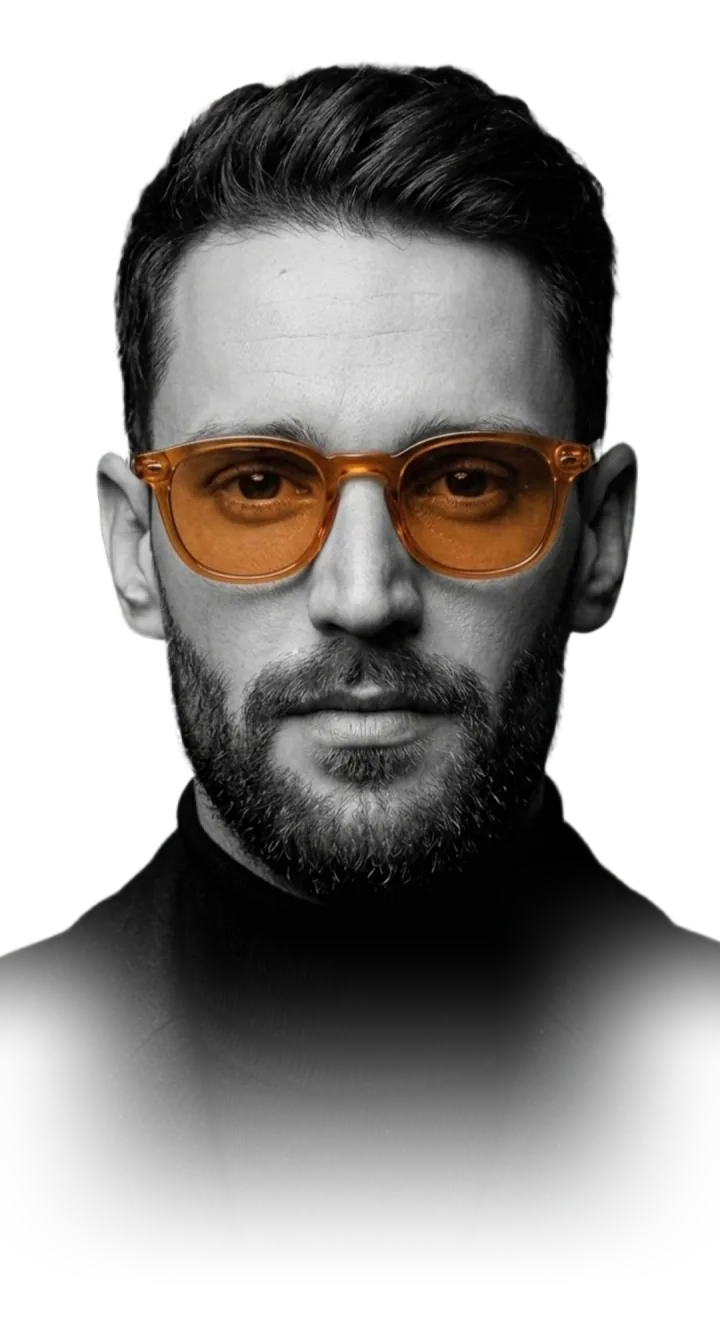
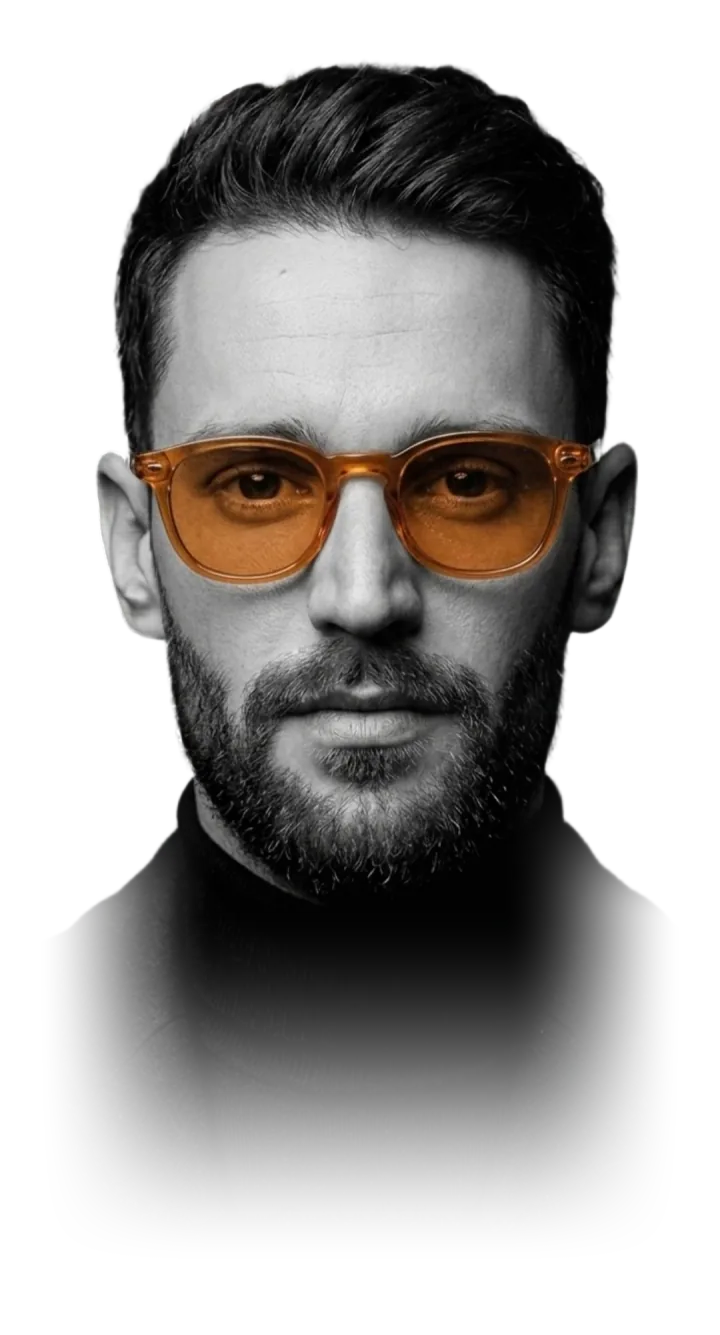
Replace the editorial portrait with the shoulder-dissolved cutout.
The approved file is still 1080×2003 WebP with alpha. Its shoulders now
fade before the image edges, and the 720px variant is regenerated from
those bytes. The public URLs are unchanged.

Changed region(s): [[0.275, 0.7678, 0.7333, 0.8906], [0.7333, 0.6142, 1.0, 0.8599], [0.0, 0.6142, 0.2444, 0.8292]]

diff --git a/CHANGELOG.md b/CHANGELOG.md
@@ -8,7 +8,7 @@ Phase 1, not tagged. Motion and performance on the v1.1.0 scene: a longer scroll
 
 ### Added
 
-- The Act 1 slot shows `public/portrait/saeed-portrait-editorial.webp` (1080×2003 WebP with alpha, byte-identical to the approved file). Mobile uses the 720×1335 variant from `npm run optimize:portrait`. The overlay uses `<picture>`, `fetchpriority="high"`, `object-fit: contain`, and bottom alignment. No frame, border, radius, shadow, or CSS crop. The amber glow is an additive radial with a clear margin, so the plane has no rectangular edge. The extruded name stays hidden until it has risen clear of the subtitle, and the settled lockup is unchanged. Bebas Neue at `0.06em`, the layout, and the copy are unchanged. Headless Chrome reports that image as LCP: 212 ms on desktop and 108 ms on mobile. First Load JS is 327 kB. The route chunk stays 179 kB.
+- The Act 1 slot shows `public/portrait/saeed-portrait-editorial.webp` (1080×2003 WebP with alpha, 203,290 bytes, byte-identical to the approved file). The shoulders dissolve before the image edges. Mobile uses the 720×1335 variant from `npm run optimize:portrait`. The overlay uses `<picture>`, `fetchpriority="high"`, `object-fit: contain`, and bottom alignment. No frame, border, radius, shadow, or CSS crop. The amber glow is an additive radial with a clear margin, so the plane has no rectangular edge. The extruded name stays hidden until it has risen clear of the subtitle, and the settled lockup is unchanged. Bebas Neue at `0.06em`, the layout, and the copy are unchanged. Headless Chrome reports that image as LCP: 212 ms on desktop and 108 ms on mobile. First Load JS is 327 kB. The route chunk stays 179 kB.
 
 ### Changed
 
